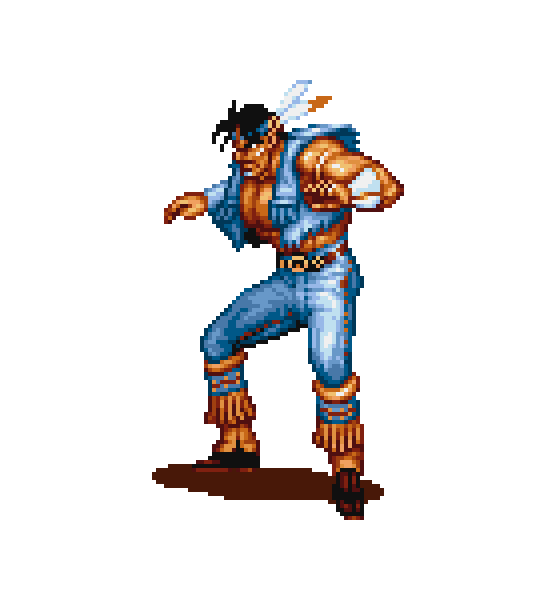
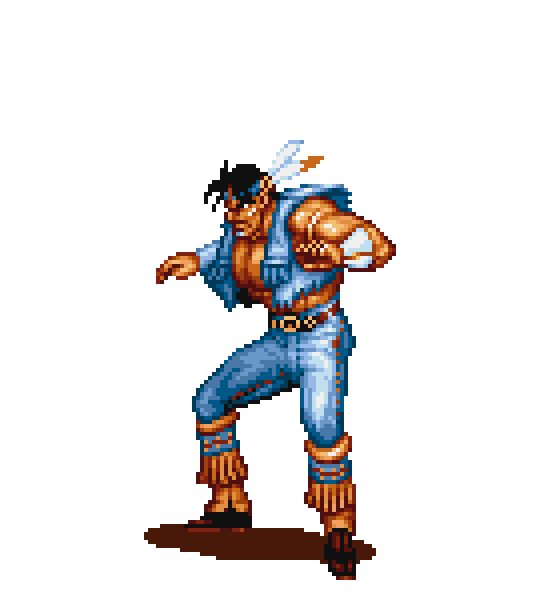
thawk sprites fix, hit animations, jump fix

Changed region(s): [[0.2429, 0.12, 0.7286, 0.99]]

diff --git a/game_data.py b/game_data.py
@@ -33,7 +33,7 @@ def initialize_player():
     rect = img.get_rect()
     rect.x = 700
     rect.y = STAGE_HEIGHT
-    hitbox = rect
+    hitbox = rect.inflate(-70, 0)
     
     # moevement setup
     direction = pygame.math.Vector2()
@@ -53,6 +53,7 @@ def initialize_player():
             'mhpunch': [],
             'lmkick': [],
             'fwjump': [],
+            'hit': [],
         },
         -1: {
             'idle': [],
@@ -66,6 +67,7 @@ def initialize_player():
             'mhpunch': [],
             'lmkick': [],
             'fwjump': [],
+            'hit': [],
         },
     }
     for face_direction in animations.keys():
@@ -119,7 +121,7 @@ def initialize_player():
             'health': 100,
             'attack': 5,
             'defense': 7,
-            'speed': 10,
+            'speed': 5,
         },
         'health': stats['health'],
         'attack': stats['attack'],
@@ -152,7 +154,7 @@ def initialize_enemy():
     rect = img.get_rect()
     rect.x = 1000
     rect.y = STAGE_HEIGHT
-    hitbox = rect
+    hitbox = rect.inflate(-80, 0)
 
     direction = pygame.math.Vector2()
 
@@ -165,7 +167,8 @@ def initialize_enemy():
             'lpunch': [],
             'hkick': [],
             'lmkick': [],
-            'mhpunch': []
+            'mhpunch': [],
+            'hit': [],
         },
         -1: {
             'idle': [],
@@ -174,6 +177,7 @@ def initialize_enemy():
             'hkick': [],
             'lmkick': [],
             'mhpunch': [],
+            'hit': [],
         }
     }
 
@@ -190,7 +194,7 @@ def initialize_enemy():
     #stats
     status = 'idle'
     stats = {
-        'health': 100 * 3,
+        'health': 100,
         'attack': 6,
         'defense': 7,
         'speed': 3,
@@ -230,7 +234,7 @@ def initialize_enemy():
         #stats
         'status': status,
         'stats': {
-        'health': 100 * 3,
+        'health': 100,
         'attack': 6,
         'defense': 7,
         'speed': 3,
@@ -243,7 +247,7 @@ def initialize_enemy():
         # vulnerability
         'is_vulnerable': True,
         'vulnerability_time': 0,
-        'vulnerability_cooldown': 100,
+        'vulnerability_cooldown': 1500,
 
         # knockback
         'is_knockbackked': False,
@@ -349,7 +353,7 @@ def initialize_ui():
 
     ui_data = {
 
-        'current_state': screens['intro'],
+        'current_state': screens['map'],
 
         'timer_font': timer_font,
         'names_font': names_font,

diff --git a/entity.py b/entity.py
@@ -43,11 +43,15 @@ def initialize_move(entity_state, move):
             entity_state['animation_speed'] = 0.2
             entity_state['direction'].x = 1
 
+    if move == 'hit':
+        entity_state['direction'].x = - entity_state['face_direction']
+        entity_state['speed'] = 10
+
 # moves the player
 def move_entity(entity_state):
 
     # entity direction reverses the direction of the enemy, so that they can avail the same formula
-    entity_state['hitbox'].x += entity_state['speed'] * entity_state['direction'].x * entity_state['entity_direction'] 
+    entity_state['hitbox'].x += entity_state['speed'] * entity_state['direction'].x #* entity_state['face_direction'] 
     entity_state['hitbox'].y += entity_state['speed'] * entity_state['direction'].y
     
     # if character is jumping, increase his y velocity by the gravity.
@@ -108,11 +112,17 @@ def check_attack(attacker, defender, attack_data, background_data, ui_data):
         attack = attacker['status']
         defense = defender['status']
 
-        if attack in ATTACK_MOVES_LIST:
+        if attack in ATTACK_MOVES_LIST and defender['is_vulnerable'] and not attack in ATTACK_MOVES_EXCLUSIVE:
             if defense == 'block' or attack == 'crouch': return
             if attack == 'block' or attack == 'crouch': return
             if attack == 'jump': return
-            defender['health'] -= attack_data[attack]['attack']
+            initialize_move(defender, 'hit')
+            try:
+                defender['health'] -= attack_data[attack]['attack']
+            except KeyError:
+                pass
+            defender['is_vulnerable'] = False
+            defender['vulnerability_time'] = pygame.time.get_ticks()
             background_data['bgshake_time'] = pygame.time.get_ticks()
             if defender['health'] < 0:
                 # defender['health'] = 0

diff --git a/game_updates.py b/game_updates.py
@@ -52,13 +52,16 @@ def update_ui(ui_data, data):
 
 def blit_entities(player_state, enemy_state, background_data):
     screen = pygame.display.get_surface()
+    player_offset_fix = pygame.math.Vector2(0, 80)
+    enemy_offset_fix = pygame.math.Vector2(0, -80)
+
 
     if background_data['bgshake']:
-        player_state['offset'] = player_state['rect'].topleft - background_data['shake_offset'] + pygame.math.Vector2(0, 80)
-        enemy_state['offset'] = enemy_state['rect'].topleft - background_data['shake_offset'] + pygame.math.Vector2(0, -30)
+        player_state['offset'] = player_state['rect'].topleft - background_data['shake_offset'] + player_offset_fix
+        enemy_state['offset'] = enemy_state['rect'].topleft - background_data['shake_offset'] + enemy_offset_fix
     else:
-        player_state['offset'] = player_state['rect'].topleft - background_data['offset'] + pygame.math.Vector2(0, 80)
-        enemy_state['offset'] = enemy_state['rect'].topleft - background_data['offset'] + pygame.math.Vector2(0, -30)
+        player_state['offset'] = player_state['rect'].topleft - background_data['offset'] + player_offset_fix
+        enemy_state['offset'] = enemy_state['rect'].topleft - background_data['offset'] + enemy_offset_fix
 
     screen.blit(enemy_state['image'], enemy_state['offset'])
     screen.blit(player_state['image'], player_state['offset'])

diff --git a/level_ui.py b/level_ui.py
@@ -24,8 +24,8 @@ def show_bar(current, max_amount, bg_rect, color, entity_state, data1, data2):
     else:
         offset = entity_state['rect'].topleft - data2['offset'] + pygame.math.Vector2(0, -30)
     
-    # hitboxrect = pygame.Rect(offset[0], offset[1], entity_state['hitbox'].width, entity_state['hitbox'].height)
-    # pygame.draw.rect(pygame.display.get_surface(), 'red', hitboxrect, width=3)
+    hitboxrect = pygame.Rect(offset[0], offset[1], entity_state['hitbox'].width, entity_state['hitbox'].height)
+    pygame.draw.rect(pygame.display.get_surface(), 'red', hitboxrect, width=3)
 
 def show_mugshot(image, bg_rect):
     display_surface = pygame.display.get_surface()

diff --git a/enemy.py b/enemy.py
@@ -27,8 +27,8 @@ def enemy_ai(enemy_state, player_state, background_data):
 
     if not enemy_state['attack_animation_playing']:
         if enemy_state['status'] != 'walk':
-            if abs(enemy_state['hitbox'].x - player_state['hitbox'].x) > 300:
-                enemy_state['direction'].x = - enemy_state['face_direction']
+            if abs(enemy_state['hitbox'].x - player_state['hitbox'].x) > 200:
+                enemy_state['direction'].x = enemy_state['face_direction']
                 enemy_state['status'] = 'walk'
                 enemy_state['in_range'] = False
             # elif abs(enemy_state['hitbox'].x - player_state['hitbox'].x) < 100:

diff --git a/player.py b/player.py
@@ -32,9 +32,13 @@ def key_input(player_state):
         if not player_state['is_attacking']:
 
             for attack_move in ATTACK_MOVES_LIST:
-                if not attack_move == 'jump':
-                    if keys[BUTTON_MAP[attack_move]]:
-                        initialize_move(player_state, attack_move)
+                if attack_move not in ATTACK_MOVES_EXCLUSIVE:
+                    try:
+                        if keys[BUTTON_MAP[attack_move]]:
+                            initialize_move(player_state, attack_move)
+                    except KeyError:
+                        pass
+                    
                     
 
 

diff --git a/main.py b/main.py
@@ -50,7 +50,10 @@ while game_is_on:
         run_game(player_state, enemy_state, background_data, ui_data, attack_data)
 
     # debug
-    debug((ui_data['intro_alpha']))
+    debug(('isjumping:'      + str(player_state['is_jumping']),
+           'inair:'          + str(player_state['inair']),
+           'isinvulnerable:' + str(not player_state['is_vulnerable'])
+    ))
     
     # misc.
     pygame.display.update()

diff --git a/settings.py b/settings.py
@@ -25,6 +25,13 @@ ATTACK_MOVES_LIST = [
     'lmkick',
     'fwjump',
     'jump',
+    'hit',
+]
+
+ATTACK_MOVES_EXCLUSIVE = [
+    'jump',
+    'hit',
+    
 ]
 
 BUTTON_MAP = {
